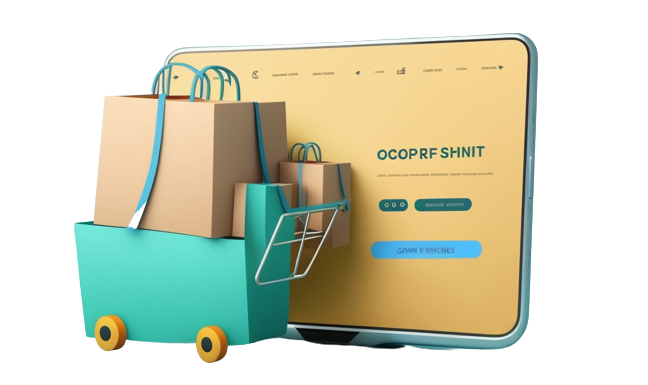
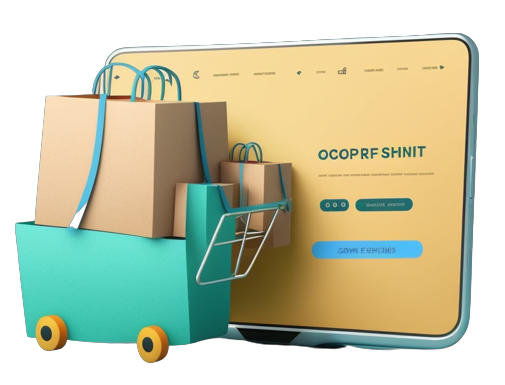
Applying different designs

diff --git a/src/components/pages/Shop.jsx b/src/components/pages/Shop.jsx
@@ -4,59 +4,60 @@ import productList from './utils/productData';
 
 function Shop() {
   return (
-    <div className="center">
-      <div className="shop">
-        {productList.map((product) => (
-          <div
-            className="product-card"
-            style={{
-              background: `url(${product.img})`,
-              backgroundSize: `cover`,
-            }}
-            key={product.id}
-          >
-            <div className="card-header">
-              <div className="label">
-                <FontAwesomeIcon icon="fa-solid fa-circle-dot" />
-                &nbsp;{product.availability}
-              </div>
-              <FontAwesomeIcon
-                icon="fa-solid fa-ellipsis-vertical"
-                className="card-header-detail"
-              />
+    <div className="shop">
+      {productList.map((product) => (
+        <div
+          className="product-card"
+          style={{
+            background: `url(${product.img})`,
+            backgroundSize: `cover`,
+          }}
+          key={product.id}
+        >
+          <div className="card-header">
+            <div className="label">
+              <FontAwesomeIcon icon="fa-solid fa-circle-dot" />
+              &nbsp;{product.availability}
             </div>
-            <div className="card-main">
-              <div className="product-name">{product.name}</div>
-              <div className="product-rating">
-                {(() => {
-                  const stars = [];
-                  for (let i = 1; i <= 5; i += 1) {
-                    if (i <= product.rating) {
-                      stars.push(
-                        <FontAwesomeIcon
-                          icon="fa-solid fa-star"
-                          key={i}
-                        />
-                      );
-                    } else {
-                      stars.push(
-                        <FontAwesomeIcon
-                          icon="fa-regular fa-star"
-                          key={i}
-                        />
-                      );
-                    }
+            <FontAwesomeIcon
+              icon="fa-solid fa-ellipsis-vertical"
+              className="card-header-detail"
+            />
+          </div>
+          <div className="card-main">
+            <div className="product-name">{product.name}</div>
+            <div className="product-rating">
+              {(() => {
+                const stars = [];
+                for (let i = 1; i <= 5; i += 1) {
+                  if (i <= product.rating) {
+                    stars.push(
+                      <FontAwesomeIcon
+                        icon="fa-solid fa-star"
+                        key={i}
+                      />
+                    );
+                  } else {
+                    stars.push(
+                      <FontAwesomeIcon
+                        icon="fa-regular fa-star"
+                        key={i}
+                      />
+                    );
                   }
-                  return stars;
-                })()}
-              </div>
-            </div>
-            <div className="card-footer">
-              <div className="product-price">${product.price}</div>
+                }
+                return stars;
+              })()}
             </div>
           </div>
-        ))}
-      </div>
+          <div className="card-footer">
+            <div className="product-price">${product.price}</div>
+            <button type="button" className="add-button">
+              Add
+            </button>
+          </div>
+        </div>
+      ))}
     </div>
   );
 }

diff --git a/src/assets/index.css b/src/assets/index.css
@@ -81,17 +81,11 @@ body {
 }
 
 main {
-  background-color: whitesmoke;
-  padding: 2rem .5rem;
+  padding: 4rem .5rem;
   flex: 1;
   width: 100%;
   margin: 0 auto;
   height: 100%;
-  background-image: url(./images/hero.png);
-  background-position: center;
-  background-repeat: no-repeat;
-  background-size: cover;
-
 }
 
 header {
@@ -159,27 +153,18 @@ header {
 
 .home {
   display: flex;
-  justify-content: space-evenly;
-  flex-wrap: wrap-reverse;
-  margin: auto;
-
+  justify-content: center;
+  flex-wrap: wrap;
   height: 100%;
+  align-items: center;
 }
 
 .description {
   padding: 2rem;
   display: flex;
   flex-direction: column;
-  align-items: center;
-  width: clamp(300px, 40%, 500px);
-  /* border: 2px solid var(--emerald); */
-  /* background: rgba(255, 255, 255, 0.1);
-  box-shadow: 0 8px 32px 0 rgba(31, 38, 135, 0.37);
-  backdrop-filter: blur(0.5px);
-  -webkit-backdrop-filter: blur(0.5px);
-  border-radius: 10px;
-  border: 1px solid rgba(255, 255, 255, 0.18); */
-
+  align-items: flex-start;
+  width: clamp(300px, 40%, 400px);
 }
 
 .description p {
@@ -194,18 +179,20 @@ header {
 }
 
 .description-shop {
-  /* align-self: flex-end; */
-  padding: 10px 30%;
-  border: 2px solid var(--dark);
-  border-radius: 8px;
+  margin-top: 1vh;
+  padding: 8px 32px;
+  border-radius: 5px;
   font-weight: bold;
+  font-size: 1.6rem;
+  color: white;
+  background-color: var(--dark);
+  box-shadow: rgba(0, 0, 0, 0.15) 1.95px 1.95px 2.6px;
+
 }
 
 .hero-image {
-  border-radius: 20px;
-  width: clamp(450px, 40%, 800px);
+  width: clamp(400px, 40%, 500px);
   height: auto;
-
 }
 
 /* || Shop */
@@ -261,12 +248,15 @@ header {
 }
 
 .card-footer {
-  /* color: black; */
   color: #04541f;
   background-color: #ffffff;
   height: 50px;
   padding: 16px;
+  display: flex;
+  justify-content: space-between;
 }
+
+.add-button {}
 
 /* || Contact */
 
@@ -320,7 +310,6 @@ input {
 /* || Footer */
 
 footer {
-  background-color: whitesmoke;
   width: 100%;
   display: flex;
   justify-content: center;
@@ -334,4 +323,8 @@ footer {
 .svg {
   height: 40px;
   width: 32px;
+}
+
+.white {
+  background-color: white;
 }

diff --git a/src/components/pages/Home.jsx b/src/components/pages/Home.jsx
@@ -1,5 +1,4 @@
 import React from 'react';
-// import heroImage from '../../assets/images/hero.png';
 import heroImage from '../../assets/images/midjourney.png';
 
 function Home() {
